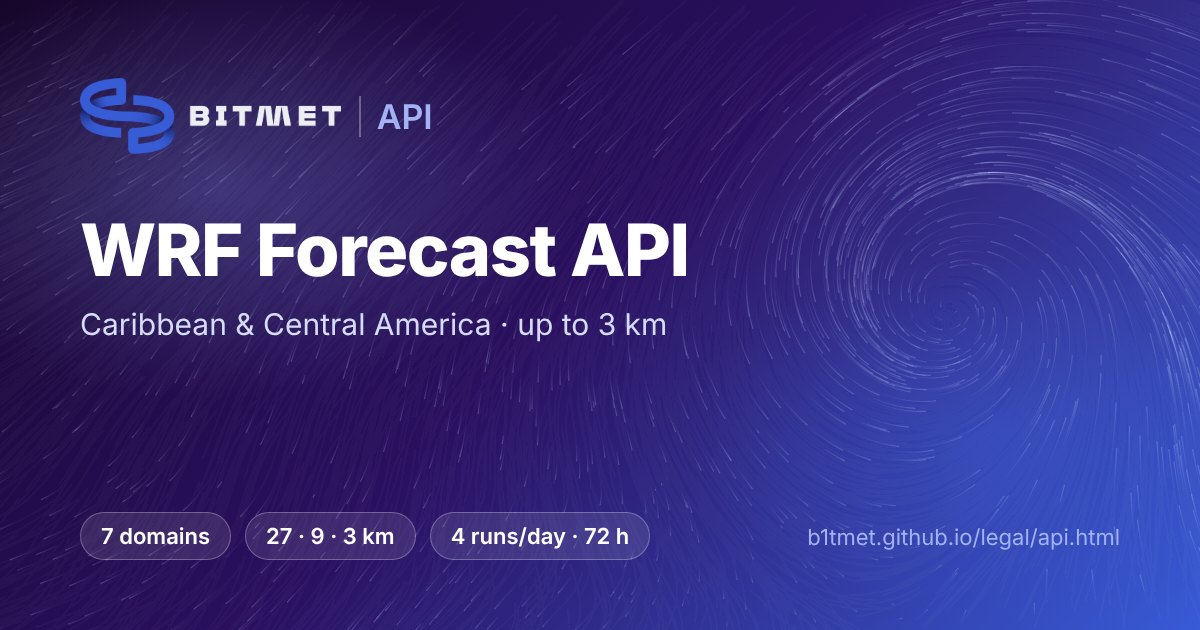
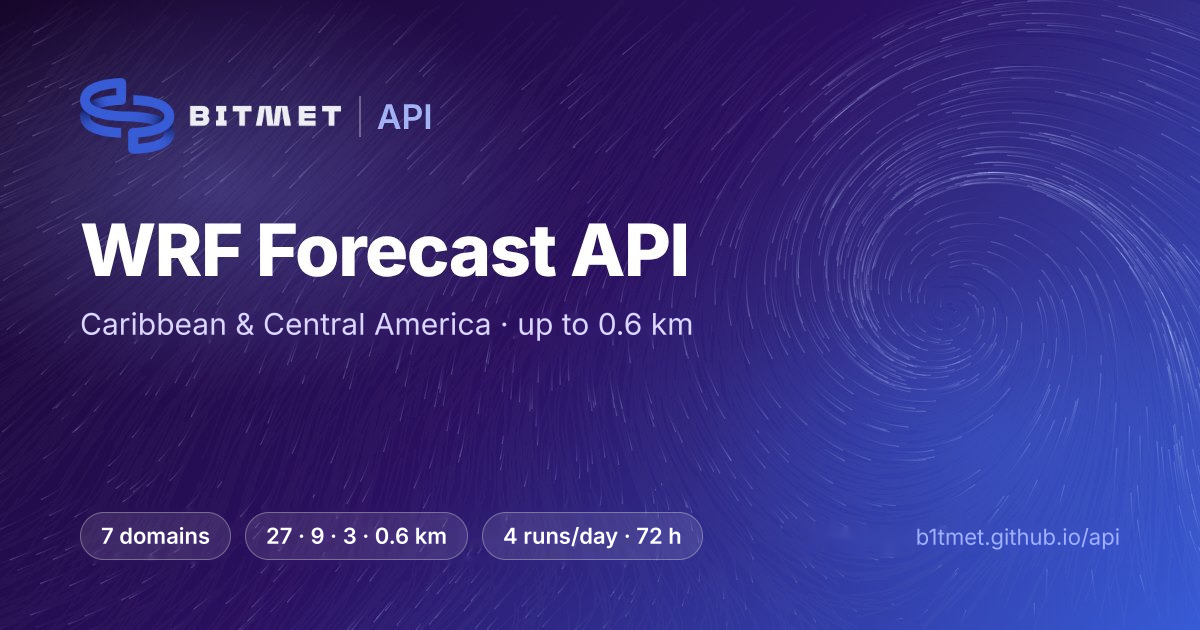
replace text and og

diff --git a/precios.html b/precios.html
@@ -626,12 +626,12 @@
               <p>Respuesta (resumida):</p>
               <pre class="code"><code>{
   "model": { "domain": "cuba", "grid": "d03", "resolution_km": 3,
-             "run_init": "2026-10-31T00:00:00Z" },
+             "run_init": "2026-11-23T18:00:00Z" },
   "data": [
-    { "time": "2026-10-31T03:00:00Z",
-      "temperature_2m": 24.6, "relative_humidity_2m": 91.4,
-      "wind_speed_10m": 0.8, "wind_direction_10m": 120,
-      "precipitation_3h": 0, "apparent_temperature": 24.8 }
+    { "time": "2026-11-24T00:00:00Z",
+      "temperature_2m": 24.9, "relative_humidity_2m": 80.8,
+      "wind_speed_10m": 4.9, "wind_direction_10m": 48,
+      "precipitation_3h": 0, "apparent_temperature": 25.6 }
   ]
 }</code></pre>
               <p class="muted">
@@ -976,12 +976,12 @@
               <p>Response (abridged):</p>
               <pre class="code"><code>{
   "model": { "domain": "cuba", "grid": "d03", "resolution_km": 3,
-             "run_init": "2026-10-31T00:00:00Z" },
+             "run_init": "2026-11-23T18:00:00Z" },
   "data": [
-    { "time": "2026-10-31T03:00:00Z",
-      "temperature_2m": 24.6, "relative_humidity_2m": 91.4,
-      "wind_speed_10m": 0.8, "wind_direction_10m": 120,
-      "precipitation_3h": 0, "apparent_temperature": 24.8 }
+    { "time": "2026-11-24T00:00:00Z",
+      "temperature_2m": 24.9, "relative_humidity_2m": 80.8,
+      "wind_speed_10m": 4.9, "wind_direction_10m": 48,
+      "precipitation_3h": 0, "apparent_temperature": 25.6 }
   ]
 }</code></pre>
               <p class="muted">
@@ -1321,12 +1321,12 @@
               <p>Resposta (resumida):</p>
               <pre class="code"><code>{
   "model": { "domain": "cuba", "grid": "d03", "resolution_km": 3,
-             "run_init": "2026-10-31T00:00:00Z" },
+             "run_init": "2026-11-23T18:00:00Z" },
   "data": [
-    { "time": "2026-10-31T03:00:00Z",
-      "temperature_2m": 24.6, "relative_humidity_2m": 91.4,
-      "wind_speed_10m": 0.8, "wind_direction_10m": 120,
-      "precipitation_3h": 0, "apparent_temperature": 24.8 }
+    { "time": "2026-11-24T00:00:00Z",
+      "temperature_2m": 24.9, "relative_humidity_2m": 80.8,
+      "wind_speed_10m": 4.9, "wind_direction_10m": 48,
+      "precipitation_3h": 0, "apparent_temperature": 25.6 }
   ]
 }</code></pre>
               <p class="muted">
@@ -1671,12 +1671,12 @@
               <p>Réponse (abrégée) :</p>
               <pre class="code"><code>{
   "model": { "domain": "cuba", "grid": "d03", "resolution_km": 3,
-             "run_init": "2026-10-31T00:00:00Z" },
+             "run_init": "2026-11-23T18:00:00Z" },
   "data": [
-    { "time": "2026-10-31T03:00:00Z",
-      "temperature_2m": 24.6, "relative_humidity_2m": 91.4,
-      "wind_speed_10m": 0.8, "wind_direction_10m": 120,
-      "precipitation_3h": 0, "apparent_temperature": 24.8 }
+    { "time": "2026-11-24T00:00:00Z",
+      "temperature_2m": 24.9, "relative_humidity_2m": 80.8,
+      "wind_speed_10m": 4.9, "wind_direction_10m": 48,
+      "precipitation_3h": 0, "apparent_temperature": 25.6 }
   ]
 }</code></pre>
               <p class="muted">
@@ -2024,12 +2024,12 @@
               <p>Risposta (abbreviata):</p>
               <pre class="code"><code>{
   "model": { "domain": "cuba", "grid": "d03", "resolution_km": 3,
-             "run_init": "2026-10-31T00:00:00Z" },
+             "run_init": "2026-11-23T18:00:00Z" },
   "data": [
-    { "time": "2026-10-31T03:00:00Z",
-      "temperature_2m": 24.6, "relative_humidity_2m": 91.4,
-      "wind_speed_10m": 0.8, "wind_direction_10m": 120,
-      "precipitation_3h": 0, "apparent_temperature": 24.8 }
+    { "time": "2026-11-24T00:00:00Z",
+      "temperature_2m": 24.9, "relative_humidity_2m": 80.8,
+      "wind_speed_10m": 4.9, "wind_direction_10m": 48,
+      "precipitation_3h": 0, "apparent_temperature": 25.6 }
   ]
 }</code></pre>
               <p class="muted">
@@ -2373,12 +2373,12 @@
               <p>Antwoord (ingekort):</p>
               <pre class="code"><code>{
   "model": { "domain": "cuba", "grid": "d03", "resolution_km": 3,
-             "run_init": "2026-10-31T00:00:00Z" },
+             "run_init": "2026-11-23T18:00:00Z" },
   "data": [
-    { "time": "2026-10-31T03:00:00Z",
-      "temperature_2m": 24.6, "relative_humidity_2m": 91.4,
-      "wind_speed_10m": 0.8, "wind_direction_10m": 120,
-      "precipitation_3h": 0, "apparent_temperature": 24.8 }
+    { "time": "2026-11-24T00:00:00Z",
+      "temperature_2m": 24.9, "relative_humidity_2m": 80.8,
+      "wind_speed_10m": 4.9, "wind_direction_10m": 48,
+      "precipitation_3h": 0, "apparent_temperature": 25.6 }
   ]
 }</code></pre>
               <p class="muted">

diff --git a/docs.html b/docs.html
@@ -731,21 +731,21 @@ https://thredds.b1tmet.com/v1/usage?apikey=b1t_live_TU_CLAVE</code></pre>
             </div>
             <pre class="code"><code>{
   "api_version": "1",
-  "request_id": "req_6PsbdRoNGWuwij05",
+  "request_id": "req_qEAgbkgcUxW337jq",
   "location":   { "lat": 23.13, "lon": -82.38 },
-  "grid_point": { "lat": 23.0988, "lon": -82.3362, "distance_km": 5.7, "elevation_m": 36.9 },
+  "grid_point": { "lat": 23.1166, "lon": -82.3939, "distance_km": 2.1, "elevation_m": 27 },
   "model": { "name": "WRF", "domain": "cuba", "grid": "d03", "resolution_km": 3,
-             "run_init": "2026-10-31T00:00:00Z", "time_step_hours": 3 },
+             "run_init": "2026-11-23T18:00:00Z", "time_step_hours": 3 },
   "units": { "temperature_2m": "degC", "relative_humidity_2m": "%",
              "pressure_surface": "hPa", "pressure_msl": "hPa",
              "wind_speed_10m": "m/s", "wind_direction_10m": "deg",
              "precipitation_3h": "mm", "apparent_temperature": "degC" },
   "data": [
-    { "time": "2026-10-31T03:00:00Z", "run_init": "2026-10-31T00:00:00Z",
-      "temperature_2m": 24.6, "relative_humidity_2m": 91.4,
-      "pressure_surface": 1010.4, "pressure_msl": 1014.7,
-      "wind_speed_10m": 0.8, "wind_direction_10m": 120,
-      "precipitation_3h": 0, "apparent_temperature": 24.8 }
+    { "time": "2026-11-24T00:00:00Z", "run_init": "2026-11-23T18:00:00Z",
+      "temperature_2m": 24.9, "relative_humidity_2m": 80.8,
+      "pressure_surface": 1012.7, "pressure_msl": 1015.9,
+      "wind_speed_10m": 4.9, "wind_direction_10m": 48,
+      "precipitation_3h": 0, "apparent_temperature": 25.6 }
   ]
 }</code></pre>
             <ul>
@@ -1469,21 +1469,21 @@ https://thredds.b1tmet.com/v1/usage?apikey=b1t_live_YOUR_KEY</code></pre>
             </div>
             <pre class="code"><code>{
   "api_version": "1",
-  "request_id": "req_6PsbdRoNGWuwij05",
+  "request_id": "req_qEAgbkgcUxW337jq",
   "location":   { "lat": 23.13, "lon": -82.38 },
-  "grid_point": { "lat": 23.0988, "lon": -82.3362, "distance_km": 5.7, "elevation_m": 36.9 },
+  "grid_point": { "lat": 23.1166, "lon": -82.3939, "distance_km": 2.1, "elevation_m": 27 },
   "model": { "name": "WRF", "domain": "cuba", "grid": "d03", "resolution_km": 3,
-             "run_init": "2026-10-31T00:00:00Z", "time_step_hours": 3 },
+             "run_init": "2026-11-23T18:00:00Z", "time_step_hours": 3 },
   "units": { "temperature_2m": "degC", "relative_humidity_2m": "%",
              "pressure_surface": "hPa", "pressure_msl": "hPa",
              "wind_speed_10m": "m/s", "wind_direction_10m": "deg",
              "precipitation_3h": "mm", "apparent_temperature": "degC" },
   "data": [
-    { "time": "2026-10-31T03:00:00Z", "run_init": "2026-10-31T00:00:00Z",
-      "temperature_2m": 24.6, "relative_humidity_2m": 91.4,
-      "pressure_surface": 1010.4, "pressure_msl": 1014.7,
-      "wind_speed_10m": 0.8, "wind_direction_10m": 120,
-      "precipitation_3h": 0, "apparent_temperature": 24.8 }
+    { "time": "2026-11-24T00:00:00Z", "run_init": "2026-11-23T18:00:00Z",
+      "temperature_2m": 24.9, "relative_humidity_2m": 80.8,
+      "pressure_surface": 1012.7, "pressure_msl": 1015.9,
+      "wind_speed_10m": 4.9, "wind_direction_10m": 48,
+      "precipitation_3h": 0, "apparent_temperature": 25.6 }
   ]
 }</code></pre>
             <ul>
